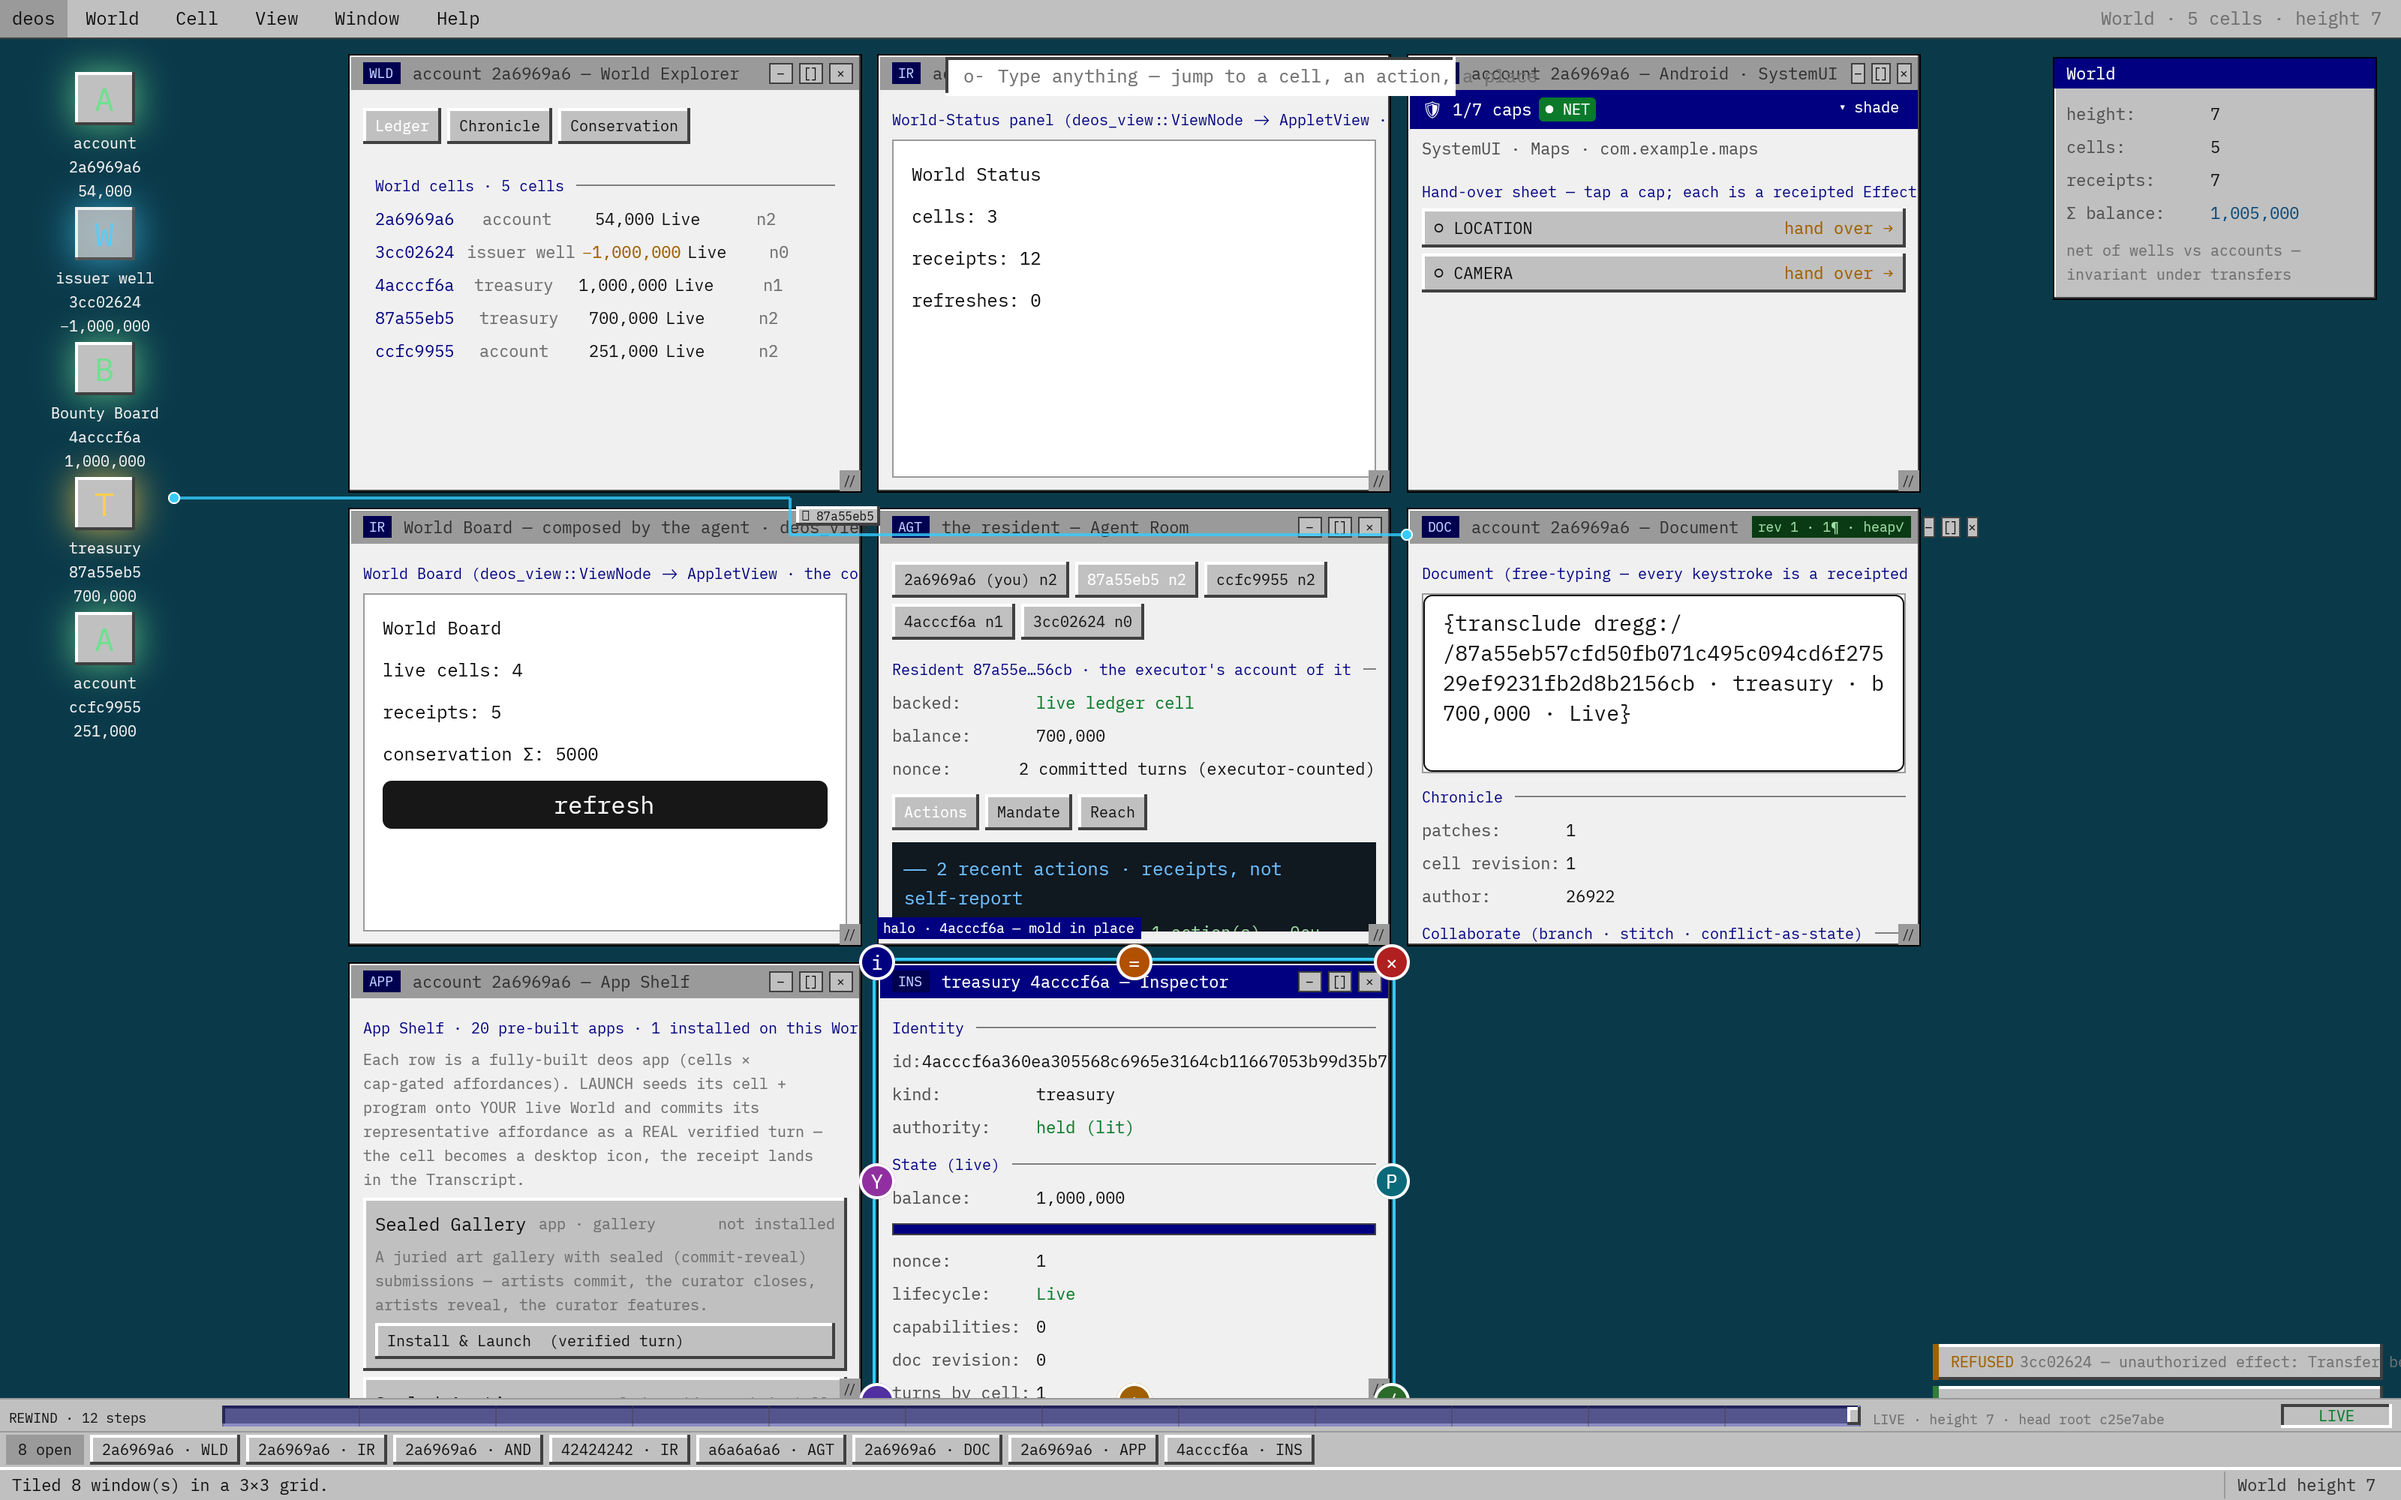
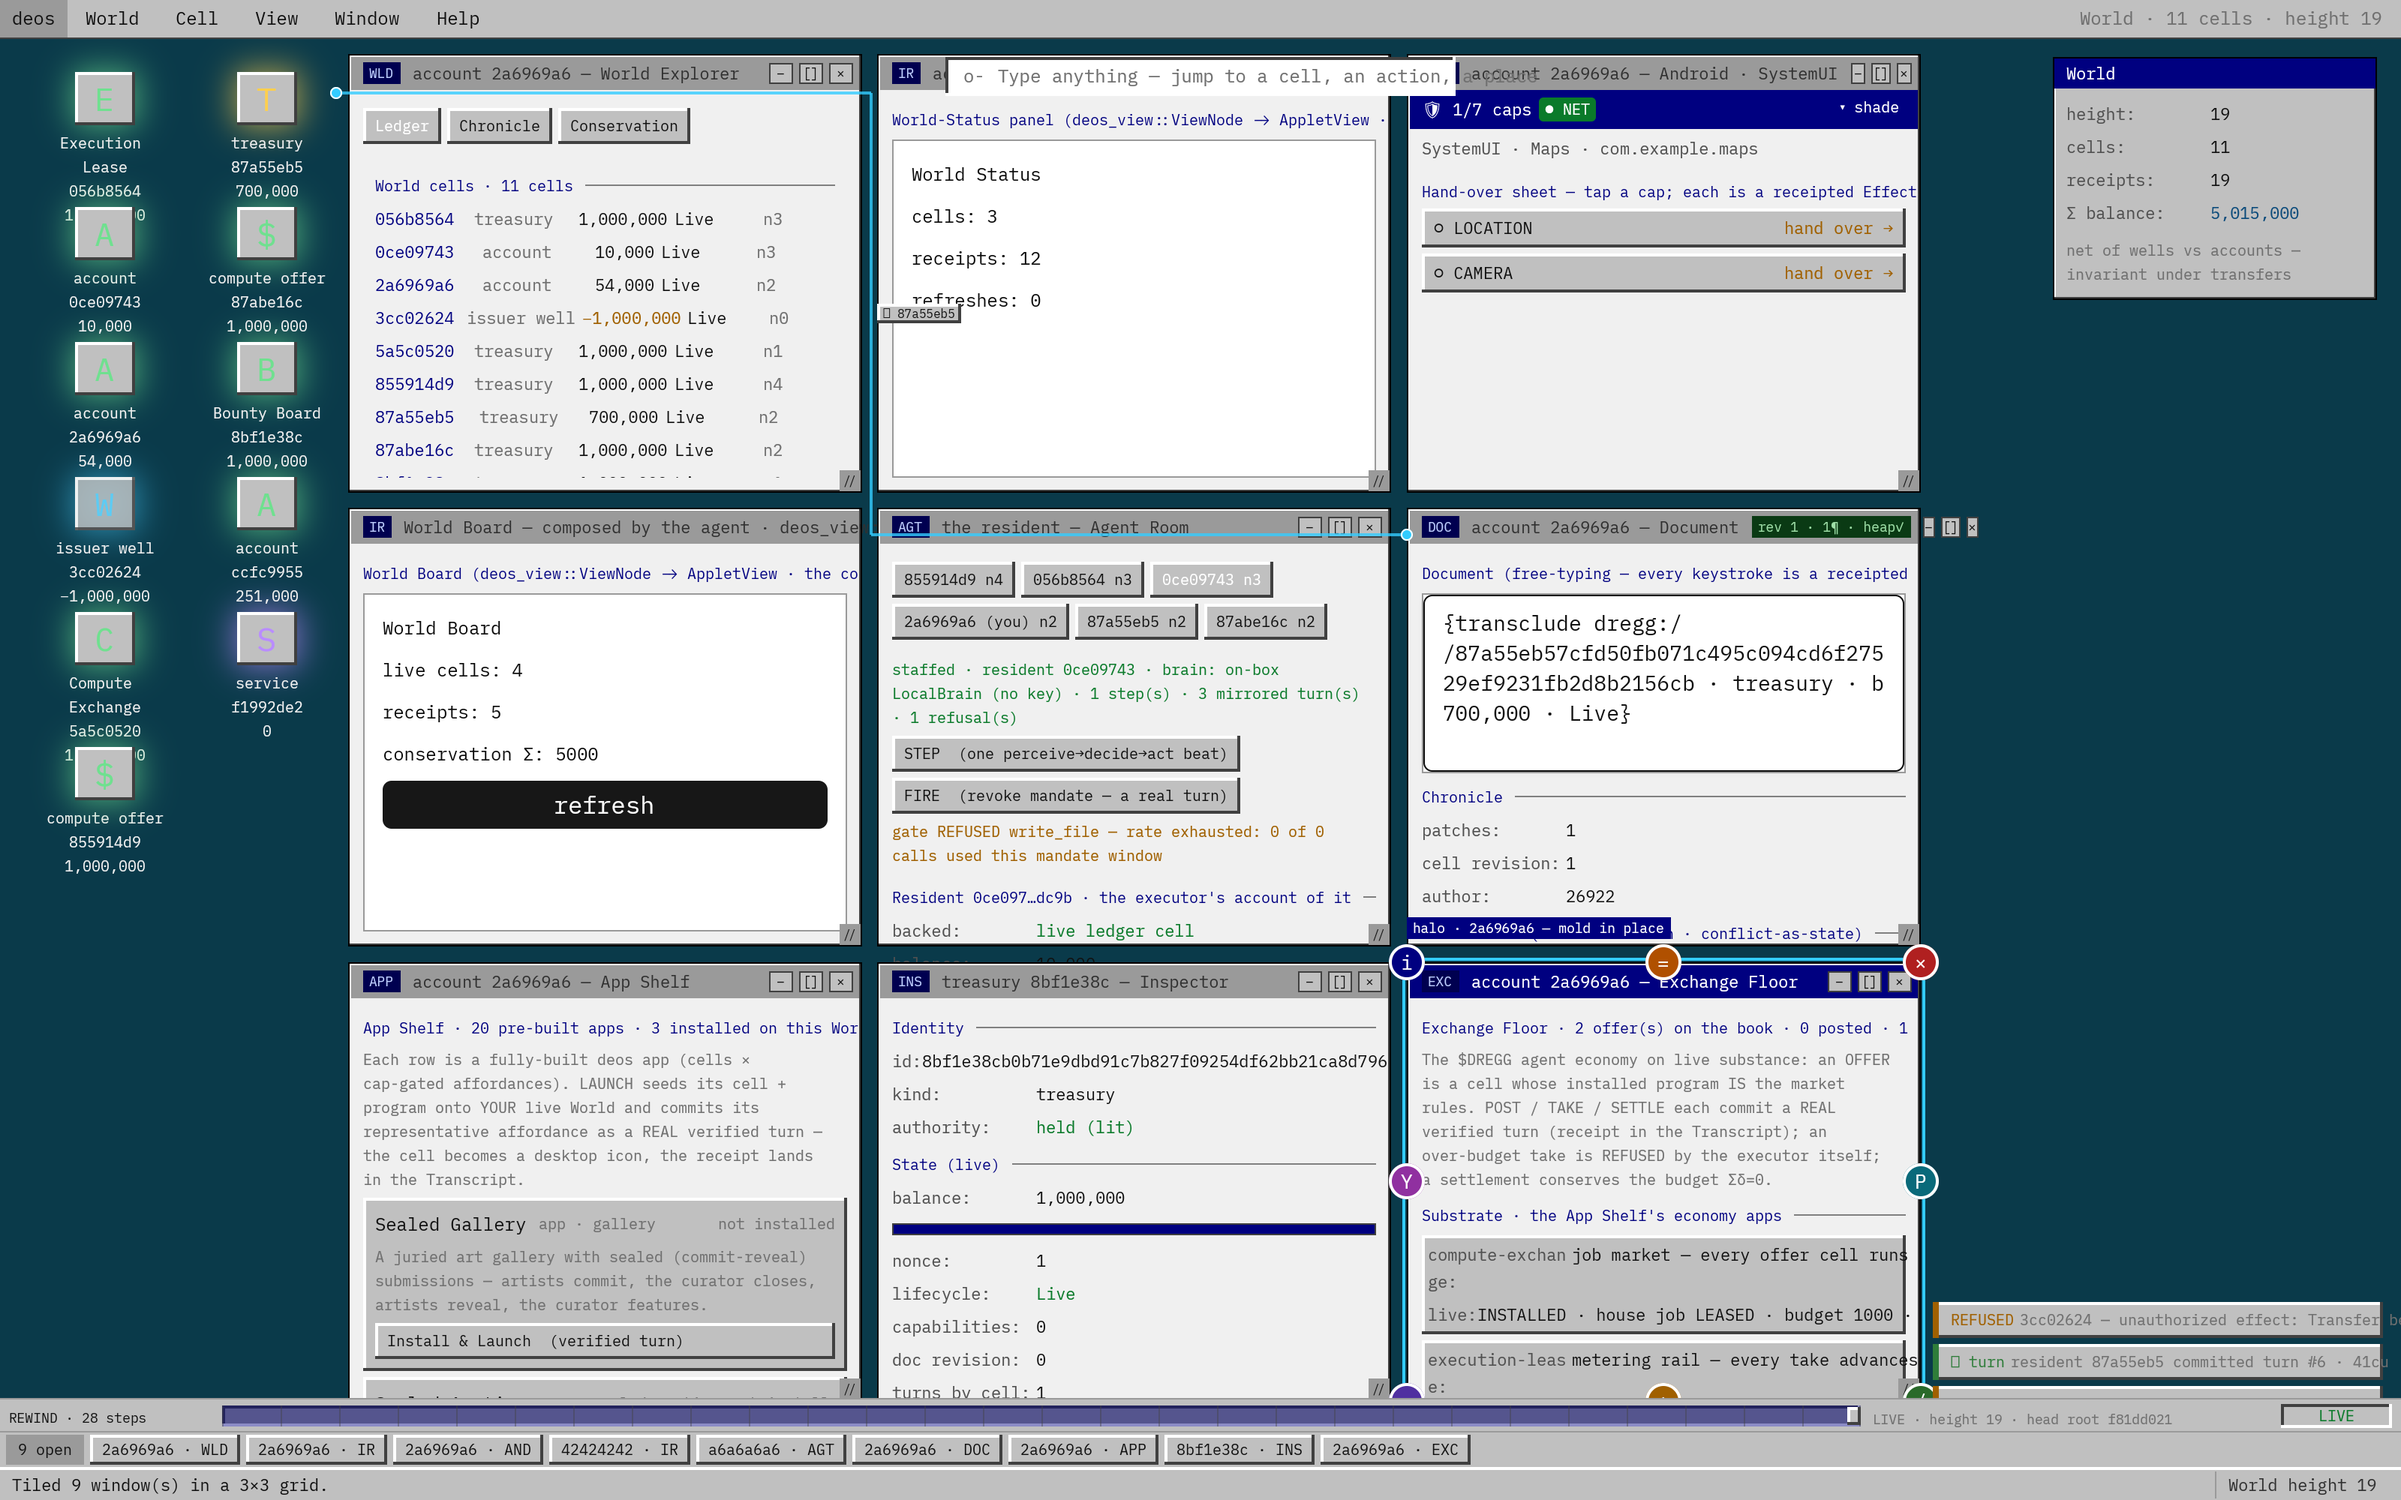
docs(night-shift): wave 3 integrated — the desktop is an economy (frame refreshed)

diff --git a/DEOS-NIGHT-SHIFT.md b/DEOS-NIGHT-SHIFT.md
@@ -94,3 +94,11 @@ dregg-node (--run-node dispatcher) + the self-describing vessel (19.4MB dregg-sr
 in the ROOT workspace target/ on this checkout, not starbridge-v2/target/ — CI recipe
 assumes the standalone workspace; noted for the workflow fix). Smoke: both binaries + the
 vessel extracted and asserted. Planner risk #3 (linux leg): retired.
+
+## WAVE 3 INTEGRATED ~06:0x — the desktop is an ECONOMY now
+Pulse→Signals weld (World-Status binds finally live, dirty-glow) · Exchange Floor (offers/
+leases as cells, Σδ=0 settlement, over-budget cheat refused in-band) · Agent Room HIRE/
+STEP/FIRE (a real confined resident on the live World; refusals as amber toasts) — all
+merged, 864 lib tests + 5 weld tests green, woven tour beats 4j/4k witness the hire and
+the trade. Layout-saver perf fix in (coalescing writer thread for hot paths). The bake's
+World now ends at 11 cells / 9 windows: the demo image grows a population during the tour.
